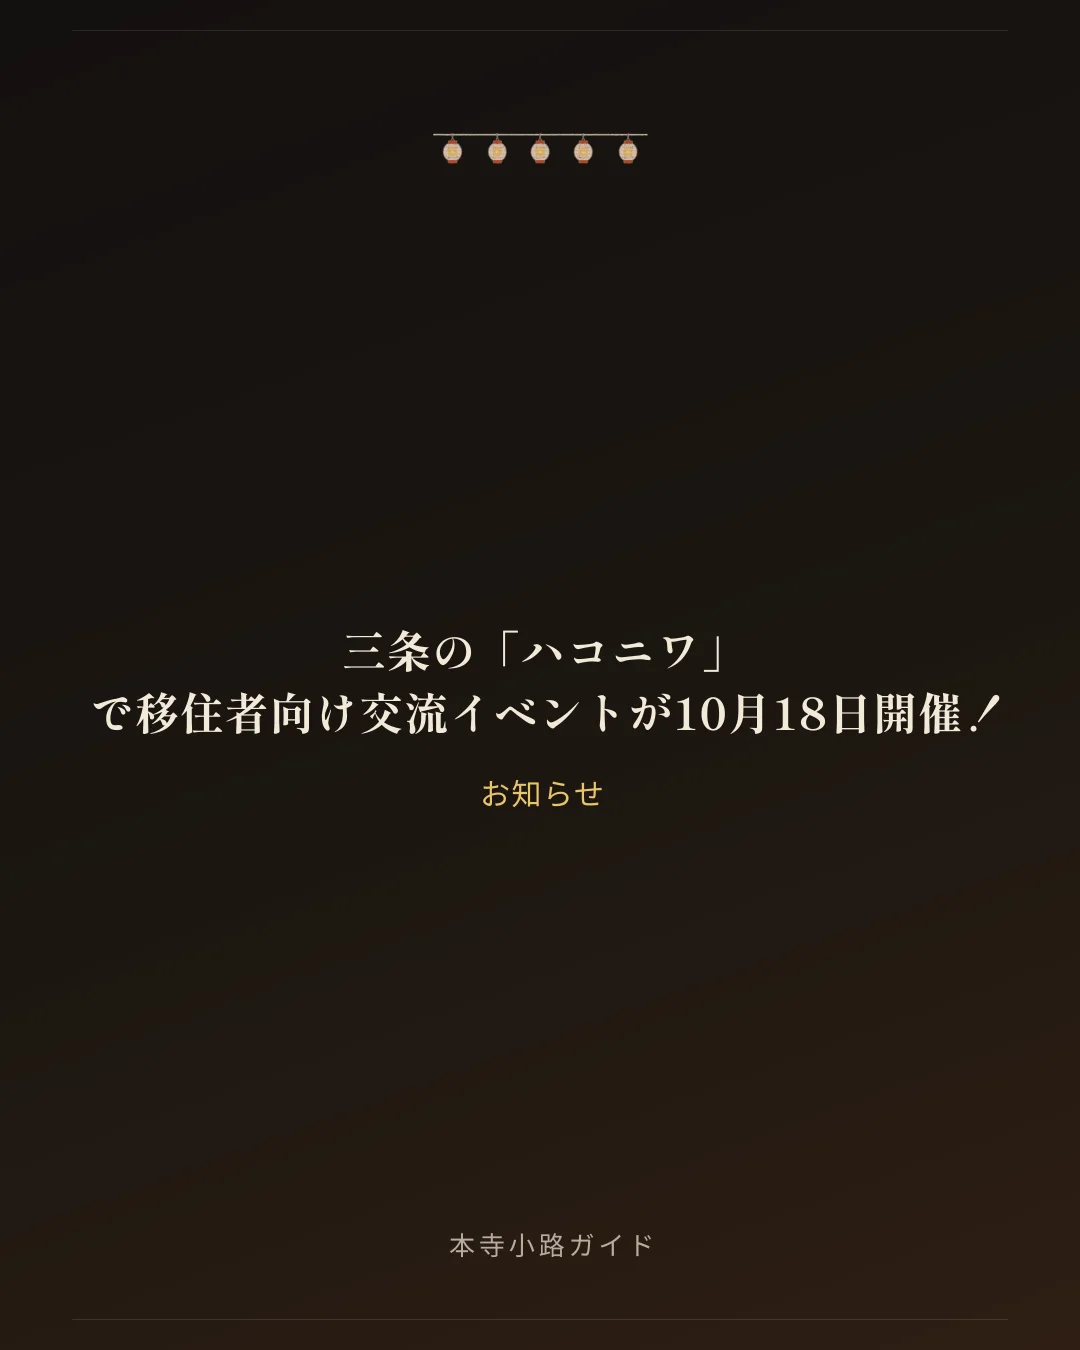
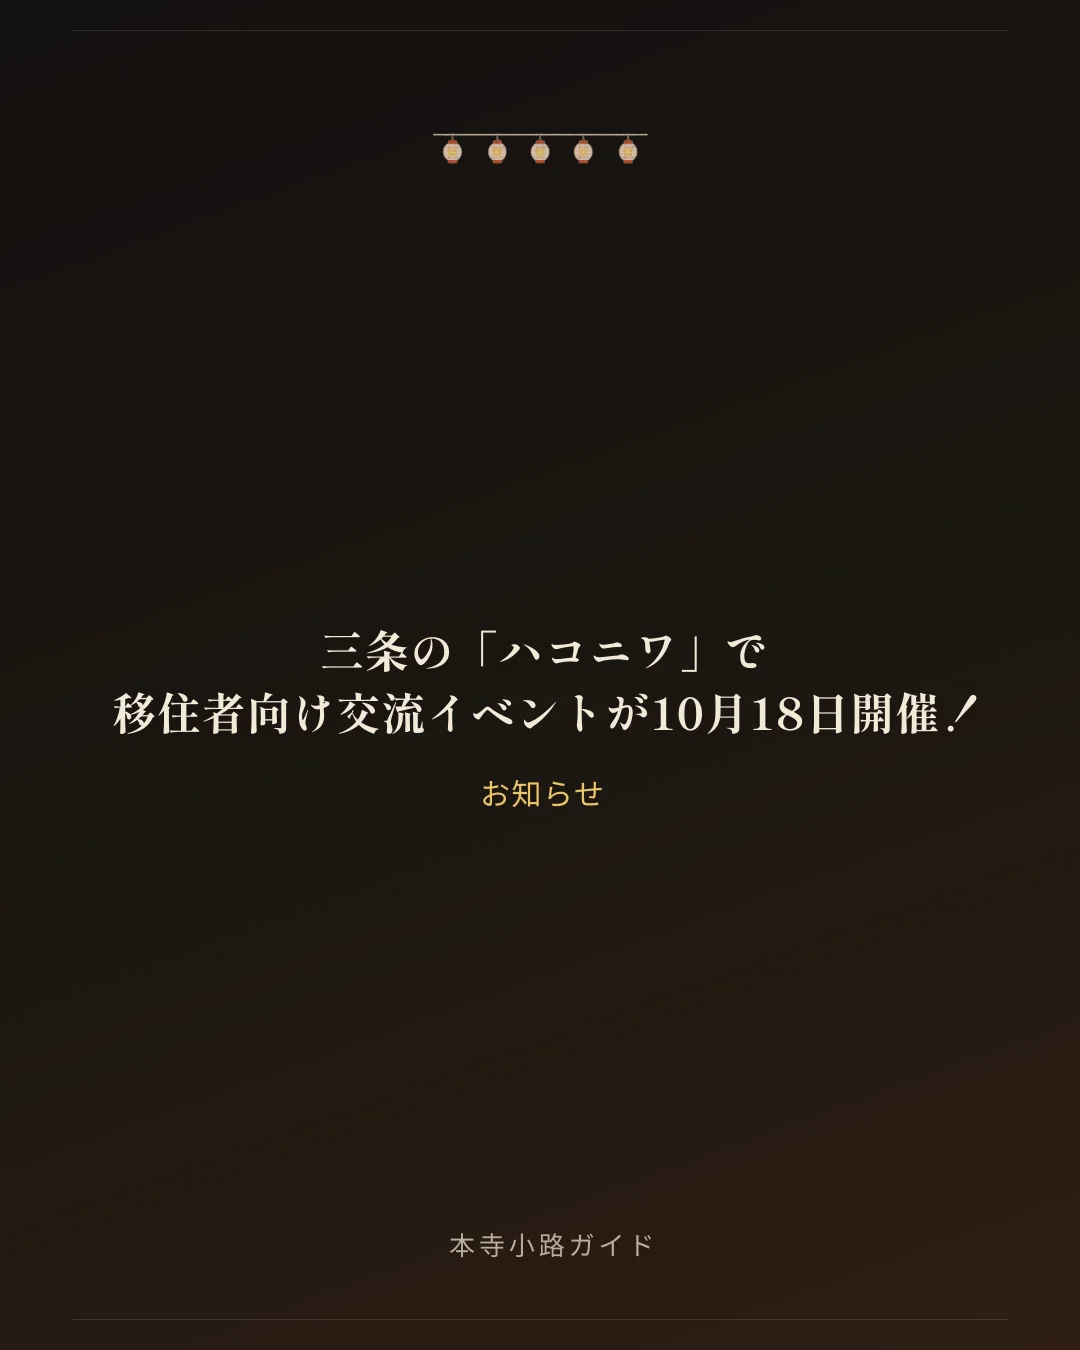
fix(ogpImage): Instagramフィード画像タイトルの改行位置を修正
「三条の「ハコニワ」で移住者向け交流イベントが10月18日開催！」の
フィード画像で、閉じ括弧」の直後を改行位置に選んだ結果、2行目が
「で移住者向け…」と助詞「で」から始まってしまい、直前の「「ハコニワ」」
との結びつきが分断されて見える不具合が報告された。

wrapJapaneseTitleに、閉じ括弧の直後が助詞（と・の・で・を）の場合、
その行の文字数上限に収まる範囲で助詞ごと前の行に含める処理を追加
（1)優先的な改行位置として括弧を選ぶ経路、3)禁則処理で括弧を行末に
押し出す経路のどちらでも一律に効くよう、両分岐の後にまとめて配置）。
「あいうえとかきくけこ」のような、括弧を伴わない既存の「助詞の直後で
終わる行を避ける」ロジック（2、こちらは行末側の話）と役割が重ならない
よう、直前が閉じ括弧の場合に限定した。

あわせてfitFeedTitleも、2行に収まる最初のtierを機械的に採用するのでは
なく、2行に収まりかつこの問題も起きないtierを優先するよう変更した
（wrapJapaneseTitle自体の救済は、そのtierのmaxCharsPerLineに収まる
範囲でしか働かないため、「「Bar Keywest」の紹介記事を公開しました」の
ように1行目がぎりぎり上限に達するケースでは、より小さいフォントの
tierでなら回避できたはずの問題がそのまま残っていた）。

実際に公開済みの該当画像
（public/images/instagram/news-yurutto-zatsudan-cafe-hakoniwa-20261018-feed.webp）
を、修正後のロジックで再生成した。他の公開済み画像は対象外
（店舗紹介の「公開お知らせ」記事はInstagram素材生成の対象外のため
同種のタイトルの画像は存在せず、他の生成済み画像のタイトルにはこの
パターンが無いことを確認済み）。

テスト: 新規回帰テスト4件を含むscripts/lib/ogpImage.test.ts、
npx vitest run（181件）・npx tsc --noEmit・npm run build 通過

Changed region(s): [[0.0917, 0.4667, 0.9167, 0.56]]

diff --git a/scripts/lib/ogpImage.ts b/scripts/lib/ogpImage.ts
@@ -301,10 +301,16 @@ export function wrapJapaneseTitle(title: string, maxCharsPerLine: number): strin
   const PREFERRED_BREAK_AFTER = /[。！？、」』）]/;
   const AVOID_BREAK_AFTER = /[とのでを]/;
   const FORBIDDEN_LINE_START = /[。！？、」』）]/;
+  const CLOSING_BRACKET = /[」』）]/;
   // 禁則・助詞判定は「1文字トークン」にのみ意味を持つ（英数字の単語トークンは対象外）。
   const isSingleChar = (token: WrapToken | undefined): token is WrapToken => !!token && token.len === 1 && [...token.text].length === 1;
 
   const tokens = tokenizeForWrap(title);
+  const sumLen = (start: number, end: number): number => {
+    let total = 0;
+    for (let i = start; i < end; i += 1) total += tokens[i].len;
+    return total;
+  };
   const lines: string[] = [];
   let lineStart = 0;
 
@@ -343,6 +349,35 @@ export function wrapJapaneseTitle(title: string, maxCharsPerLine: number): strin
       while (breakAt < tokens.length && isSingleChar(tokens[breakAt]) && FORBIDDEN_LINE_START.test(tokens[breakAt].text)) {
         breakAt += 1;
       }
+      // 4) 閉じ括弧の直後がそのまま助詞（と・の・で・を）だと、その助詞
+      //    だけが次の行の先頭に取り残され、直前の語句との結びつきが分断
+      //    されて見える（例:「三条の「ハコニワ」で移住者向け…」で2行目が
+      //    「で移住者向け…」から始まってしまった実例。2026年9月報告。
+      //    「「Bar Keywest」の紹介記事…」のように、閉じ括弧が3)の禁則処理
+      //    経由で行末に押し出されるケースでも同様に起きるため、1)〜3)の
+      //    どちらの経路で閉じ括弧が行末に来た場合にも一律で効くよう、
+      //    ここでまとめてチェックする）。助詞を含めてもこの行の文字数
+      //    上限に収まるなら、助詞ごと前の行に含める。収まらなければ
+      //    諦める（前の行が長くなりすぎるよりは、多少不自然な改行位置の
+      //    方がまし）。
+      //    直前が閉じ括弧の場合に限定する（2の「助詞の直後で終わる行を
+      //    避ける」と役割が重ならないようにするため。例えば
+      //    「あいうえとかきくけこ」を5文字で折り返す場合、2)が既に
+      //    「あいうえ|とかきくけこ」を選んでおり、ここで無条件に助詞を
+      //    前の行へ引き戻すと「あいうえと|かきくけこ」に逆戻りして
+      //    2)の目的を打ち消してしまう）。
+      const prevToken = tokens[breakAt - 1];
+      const nextToken = tokens[breakAt];
+      if (
+        breakAt < tokens.length &&
+        isSingleChar(prevToken) &&
+        CLOSING_BRACKET.test(prevToken.text) &&
+        isSingleChar(nextToken) &&
+        AVOID_BREAK_AFTER.test(nextToken.text) &&
+        sumLen(lineStart, breakAt + 1) <= maxCharsPerLine
+      ) {
+        breakAt += 1;
+      }
     }
 
     lines.push(
@@ -379,16 +414,35 @@ const FEED_TITLE_TIERS = [
 
 const FEED_TITLE_MAX_LINES = 3;
 
+// wrapJapaneseTitle自身の閉じ括弧+助詞の結合（同関数内のコメント参照）は、
+// そのtierのmaxCharsPerLineに収まる範囲でしか働かない。1行目が
+// ちょうどそのtierの上限ぎりぎりで、助詞1文字分の余裕が無いと、
+// より小さいフォント（＝maxCharsPerLineが広いtier）でなら回避できたはずの
+// 「助詞が行頭に取り残される」形がそのまま採用されてしまう
+// （実例:「「Bar Keywest」の紹介記事を公開しました」）。そのため
+// fitFeedTitleは「2行に収まる最大サイズ」を機械的に採用するのではなく、
+// 2行に収まりかつこの問題も起きないtierを優先的に探す。
+function startsWithAvoidedParticle(line: string): boolean {
+  return /^[とのでを]/.test(line);
+}
+
 /**
  * タイトルの折り返し結果（行数）に応じてフォントサイズを段階的に選ぶ。
- * 2行に収まる最大サイズを優先し、どのサイズでも2行に収まらない場合は
- * 最小サイズで最大3行まで許容、それでも収まらなければ末尾を省略する。
+ * 2行に収まり、かつ2行目以降が助詞（と・の・で・を）で始まらない最大の
+ * サイズを優先する。どのサイズでも両方は満たせない場合は、2行に収まる
+ * 最大サイズ（従来の判定基準）にフォールバックする。どのサイズでも
+ * 2行に収まらない場合は、最小サイズで最大3行まで許容し、それでも
+ * 収まらなければ末尾を省略する。テスト用にexportする。
  */
-function fitFeedTitle(title: string): { fontSize: number; lines: string[] } {
+export function fitFeedTitle(title: string): { fontSize: number; lines: string[] } {
+  let fallback: { fontSize: number; lines: string[] } | undefined;
   for (const tier of FEED_TITLE_TIERS) {
     const lines = wrapJapaneseTitle(title, tier.maxCharsPerLine);
-    if (lines.length <= 2) return { fontSize: tier.fontSize, lines };
+    if (lines.length > 2) continue;
+    if (!fallback) fallback = { fontSize: tier.fontSize, lines };
+    if (!lines.slice(1).some(startsWithAvoidedParticle)) return { fontSize: tier.fontSize, lines };
   }
+  if (fallback) return fallback;
 
   const smallest = FEED_TITLE_TIERS[FEED_TITLE_TIERS.length - 1];
   let lines = wrapJapaneseTitle(title, smallest.maxCharsPerLine);

diff --git a/scripts/lib/ogpImage.test.ts b/scripts/lib/ogpImage.test.ts
@@ -1,5 +1,5 @@
 import { describe, expect, it } from 'vitest';
-import { checkGlyphCoverage, wrapJapaneseTitle } from './ogpImage';
+import { checkGlyphCoverage, fitFeedTitle, wrapJapaneseTitle } from './ogpImage';
 
 describe('checkGlyphCoverage', () => {
   it('JIS X 0208範囲の常用漢字外の文字（旧字体・人名用漢字）も検出できる文字として扱う', async () => {
@@ -57,11 +57,35 @@ describe('wrapJapaneseTitle', () => {
     expect(lines).toEqual(['Beerhouse3']);
   });
 
+  it('閉じ括弧の直後が助詞の場合、助詞ごと前の行に含める（回帰テスト: 「三条の「ハコニワ」で…」で2行目が「で」から始まっていた不具合）', () => {
+    const lines = wrapJapaneseTitle('三条の「ハコニワ」で移住者向け交流イベントが10月18日開催！', 21);
+    expect(lines).toEqual(['三条の「ハコニワ」で', '移住者向け交流イベントが10月18日開催！']);
+  });
+
+  it('助詞を含めると上限を超える場合は諦めて閉じ括弧の直後で改行する', () => {
+    // 「三条の「ハコニワ」で」は10文字。maxCharsPerLine=9では収まらないため、
+    // 助詞を巻き込まず、従来通り閉じ括弧の直後で改行する。
+    const lines = wrapJapaneseTitle('三条の「ハコニワ」で移住者向け交流イベントが10月18日開催！', 9);
+    expect(lines[0]).toBe('三条の「ハコニワ」');
+  });
+
   it('英単語＋日本語が混在する場合も、英単語の途中では改行しない', () => {
     // 単語「BAR」(3文字) + 「え」「び」(各1文字) = 5 <= 5 でちょうど1行目に収まり、
     // 「す」を足すと5を超えるので2行目へ。
     const lines = wrapJapaneseTitle('BARえびすまち', 5);
     expect(lines[0]).toBe('BARえび');
     expect(lines.join('')).toBe('BARえびすまち');
+  });
+});
+
+describe('fitFeedTitle', () => {
+  it('候補tierのうち、閉じ括弧直後の助詞が行頭に取り残されないtierを優先する（回帰テスト: 「「Bar Keywest」の紹介記事を公開しました」で、wrapJapaneseTitle単体では2行に収まる最初のtierがこの問題を起こしたままだった）', () => {
+    const result = fitFeedTitle('「Bar Keywest」の紹介記事を公開しました');
+    expect(result.lines).toEqual(['「Bar Keywest」の', '紹介記事を公開しました']);
+  });
+
+  it('どのtierでも2行に収まらない場合は例外を投げず結果を返す', () => {
+    const result = fitFeedTitle('あ'.repeat(80));
+    expect(result.lines.length).toBeGreaterThan(0);
   });
 });
